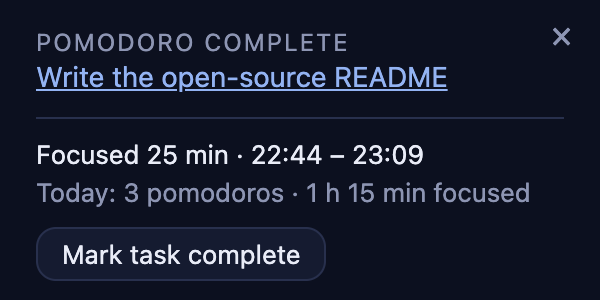
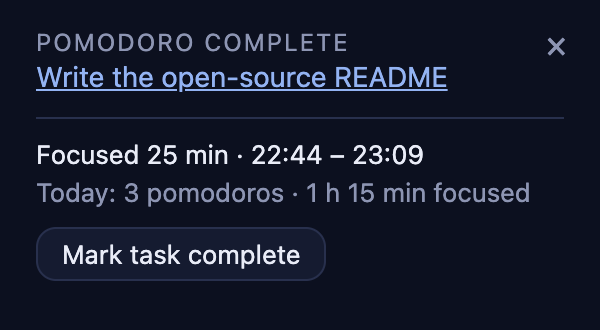
fix: size the pomodoro timer to its content and make close clickable
The timer window used hard-coded heights per state, leaving empty space
under the summary button and clipping the completed summary. The
renderer now reports its content height (timer:resize) and main sizes
the window to it.

The close button sat before the drag-region mode line in the DOM, and
Electron lets later drag regions win, so clicks on the glyph dragged
the window. It now comes last, with a larger 28px target.

Version 1.6.2.

diff --git a/src/main.js b/src/main.js
@@ -323,27 +323,34 @@ const showPomodoro = () => {
 
 const TIMER_WIDTH = 300;
 const TIMER_MARGIN = 12;
+const TIMER_HEIGHT_LIMITS = [60, 400];
+
+// The renderer reports its content height (`timer:resize`), so this is only the size before the first report.
+let timerHeight = 108;
 
 const timerView = () => pomodoro.timerView(state.pomodoro, state.pomodoroSummary, Date.now());
 
-const timerBounds = (view) => {
+const timerBounds = () => {
   const { workArea } = screen.getPrimaryDisplay();
-  const button = view?.summary && !view.summary.taskCompleted ? 62 : 0;
-  const height = view?.summary ? (view.until ? 172 : 128) + button : 108;
-  return { x: workArea.x + workArea.width - TIMER_WIDTH - TIMER_MARGIN, y: workArea.y + TIMER_MARGIN, width: TIMER_WIDTH, height };
+  return {
+    x: workArea.x + workArea.width - TIMER_WIDTH - TIMER_MARGIN,
+    y: workArea.y + TIMER_MARGIN,
+    width: TIMER_WIDTH,
+    height: timerHeight,
+  };
 };
 
 // Reuses the open timer window so a new pomodoro replaces what it shows.
 const showTimer = () => {
   const view = timerView();
   if (timerWindow && !timerWindow.isDestroyed()) {
-    timerWindow.setBounds(timerBounds(view));
+    timerWindow.setBounds(timerBounds());
     timerWindow.webContents.send('timer:update', view);
     timerWindow.showInactive();
     return;
   }
   timerWindow = new BrowserWindow({
-    ...timerBounds(view),
+    ...timerBounds(),
     show: false,
     frame: false,
     resizable: false,
@@ -363,9 +370,8 @@ const showTimer = () => {
 
 const updateTimer = () => {
   if (!timerWindow || timerWindow.isDestroyed()) return;
-  const view = timerView();
-  timerWindow.setBounds(timerBounds(view));
-  timerWindow.webContents.send('timer:update', view);
+  timerWindow.setBounds(timerBounds());
+  timerWindow.webContents.send('timer:update', timerView());
 };
 
 const finishFocus = (completed) => {
@@ -895,6 +901,13 @@ const registerIpc = () => {
   });
 
   ipcMain.handle('timer:status', (event) => (isTimerSender(event) ? timerView() : null));
+
+  ipcMain.handle('timer:resize', (event, height) => {
+    if (!isTimerSender(event) || !Number.isFinite(height)) return;
+    const [min, max] = TIMER_HEIGHT_LIMITS;
+    timerHeight = Math.min(max, Math.max(min, Math.ceil(height)));
+    timerWindow.setBounds(timerBounds());
+  });
 
   ipcMain.handle('timer:open-task', (event) => {
     if (isTimerSender(event)) openTask();

diff --git a/src/renderer/styles.css b/src/renderer/styles.css
@@ -189,10 +189,11 @@ textarea:focus { outline: 2px solid var(--accent); outline-offset: 1px; }
 .pomodoro h1 { margin-top: 4px; }
 
 /* Timer */
-.timer { position: relative; height: 100vh; overflow: hidden; padding: 14px 18px; -webkit-app-region: drag; }
+.timer { position: relative; overflow: hidden; padding: 14px 18px; -webkit-app-region: drag; }
 .timer p { margin: 0; }
-.timer-close { position: absolute; top: 6px; right: 6px; padding: 2px 8px; border: none; background: none; color: var(--muted); font-size: 18px; line-height: 1; -webkit-app-region: no-drag; }
-.timer-mode { font-size: 12px; text-transform: uppercase; letter-spacing: 1px; color: var(--muted); }
+.timer-close { position: absolute; top: 8px; right: 8px; display: flex; align-items: center; justify-content: center; width: 28px; height: 28px; padding: 0; border: none; border-radius: 6px; background: none; color: var(--muted); font-size: 18px; line-height: 1; -webkit-app-region: no-drag; }
+.timer-close:hover { background: var(--border); color: var(--text); }
+.timer-mode { padding-right: 32px; font-size: 12px; text-transform: uppercase; letter-spacing: 1px; color: var(--muted); }
 .timer-time { font-size: 34px; font-weight: 300; font-variant-numeric: tabular-nums; }
 .timer-task { display: block; margin-top: 2px; color: var(--accent); font-size: 14px; white-space: nowrap; overflow: hidden; text-overflow: ellipsis; -webkit-app-region: no-drag; }
 .timer-summary { margin-top: 12px; padding-top: 10px; border-top: 1px solid var(--border); font-size: 13px; }

diff --git a/src/renderer/timer.html b/src/renderer/timer.html
@@ -8,7 +8,6 @@
   </head>
   <body>
     <main class="timer">
-      <button type="button" class="timer-close" id="close" aria-label="Close">×</button>
       <p class="timer-mode" id="mode"></p>
       <p class="timer-time" id="time"></p>
       <a href="#" class="timer-task" id="task"></a>
@@ -21,6 +20,8 @@
           <span class="error" id="complete-error"></span>
         </div>
       </div>
+      <!-- Last in the DOM: Electron lets later drag regions override earlier no-drag ones. -->
+      <button type="button" class="timer-close" id="close" aria-label="Close">×</button>
     </main>
     <script src="escape.js"></script>
     <script src="timer.js"></script>

diff --git a/src/preload.js b/src/preload.js
@@ -24,6 +24,7 @@ contextBridge.exposeInMainWorld('focusLock', {
   timerStatus: () => ipcRenderer.invoke('timer:status'),
   openTimerTask: () => ipcRenderer.invoke('timer:open-task'),
   completeTimerTask: () => ipcRenderer.invoke('timer:complete-task'),
+  resizeTimer: (height) => ipcRenderer.invoke('timer:resize', height),
   onTimerUpdate: (callback) => ipcRenderer.on('timer:update', (_event, view) => callback(view)),
   reminderStatus: () => ipcRenderer.invoke('reminder:status'),
   backToMeeting: () => ipcRenderer.invoke('reminder:back'),

diff --git a/src/renderer/timer.js b/src/renderer/timer.js
@@ -51,6 +51,9 @@ $('complete').addEventListener('click', async () => {
   $('complete').textContent = 'Mark task complete';
   if (!result.ok) $('complete-error').textContent = result.error;
 });
+new ResizeObserver(([entry]) => window.focusLock.resizeTimer(entry.target.getBoundingClientRect().height)).observe(
+  document.querySelector('.timer'),
+);
 window.focusLock.onTimerUpdate(render);
 window.focusLock.timerStatus().then(render);
 setInterval(showTime, 1000);

diff --git a/AGENTS.md b/AGENTS.md
@@ -133,7 +133,9 @@ npm run dist     # unsigned macOS .dmg in dist/ (CSC_IDENTITY_AUTO_DISCOVERY=fal
   then 5 minutes break (`advancePomodoro` in the tick loop), counted down in the tray title. It can't start during a
   mode, and session offers are suppressed while focusing. Starting shows `renderer/timer.html`, a frameless,
   always-on-top window in the primary display's top-right corner, shown with `showInactive` so it never takes focus;
-  if it is already open it is updated (`timer:update`) rather than replaced. When focus ends or is stopped,
+  if it is already open it is updated (`timer:update`) rather than replaced. Its height follows the content: a
+  `ResizeObserver` in `timer.js` reports it via `timer:resize` (clamped by `TIMER_HEIGHT_LIMITS`). The close button
+  stays last in `timer.html`, because Electron lets a later drag region override an earlier no-drag one. When focus ends or is stopped,
   `finishFocus` appends to `state.pomodoroLog` (today only) and sets `state.pomodoroSummary`, which the window shows
   during the break and after. The renderer gets only the task name; `timer:open-task` opens the URL from main.
   `timer:complete-task` closes the summary's task (`completeTask`: reads the task's list and sets the status picked by

diff --git a/CHANGELOG.md b/CHANGELOG.md
@@ -3,6 +3,14 @@
 All notable changes to this project are documented here. The format follows
 [Keep a Changelog](https://keepachangelog.com/en/1.1.0/), and versions follow [Semantic Versioning](https://semver.org).
 
+## [1.6.2] - 2026-10-22
+
+### Fixed
+
+- Pomodoro timer: the window fits its content, so the summary no longer has empty space below **Mark task complete**
+  or gets cut off after the task is completed.
+- Pomodoro timer: the close button works when clicking the ×, not just to its right, and has more room around it.
+
 ## [1.6.1] - 2026-10-22
 
 ### Fixed
